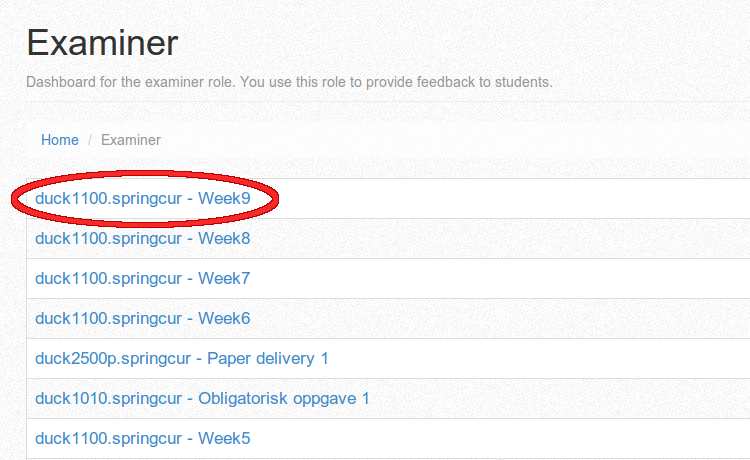
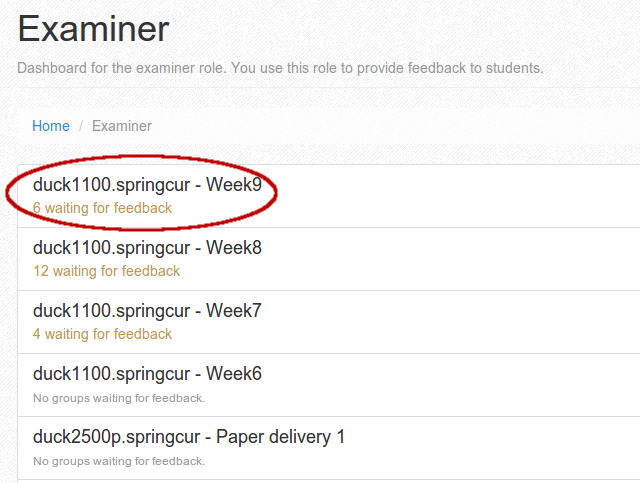
Update images for assignment selection

diff --git a/src/index.rst b/src/index.rst
@@ -42,7 +42,7 @@ Common for all roles
 
 
 Student
-#######
+--------
 
 .. toctree::
    :maxdepth: 1
@@ -51,7 +51,7 @@ Student
 
 
 Examiner/Corrector
-##################
+-------------------
 
 .. toctree::
    :maxdepth: 1
